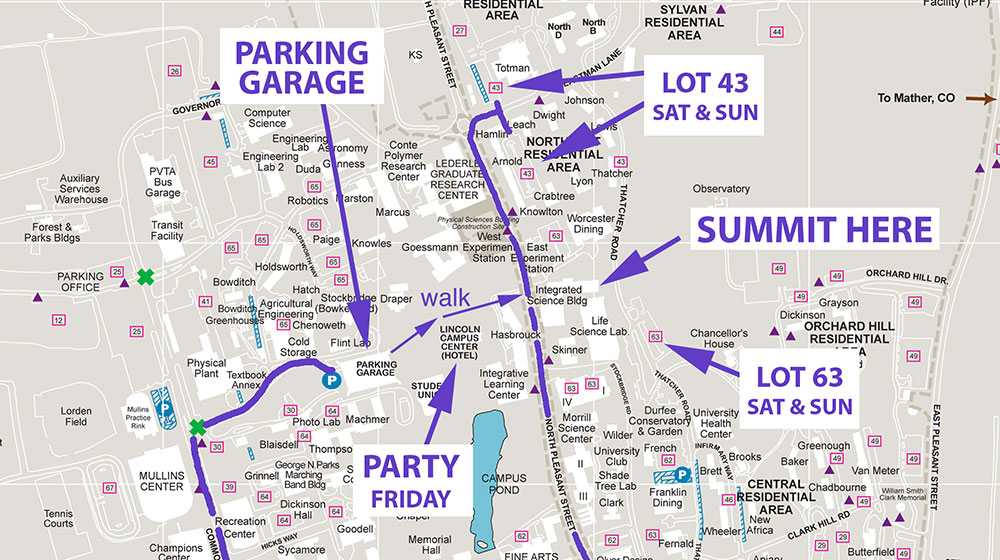
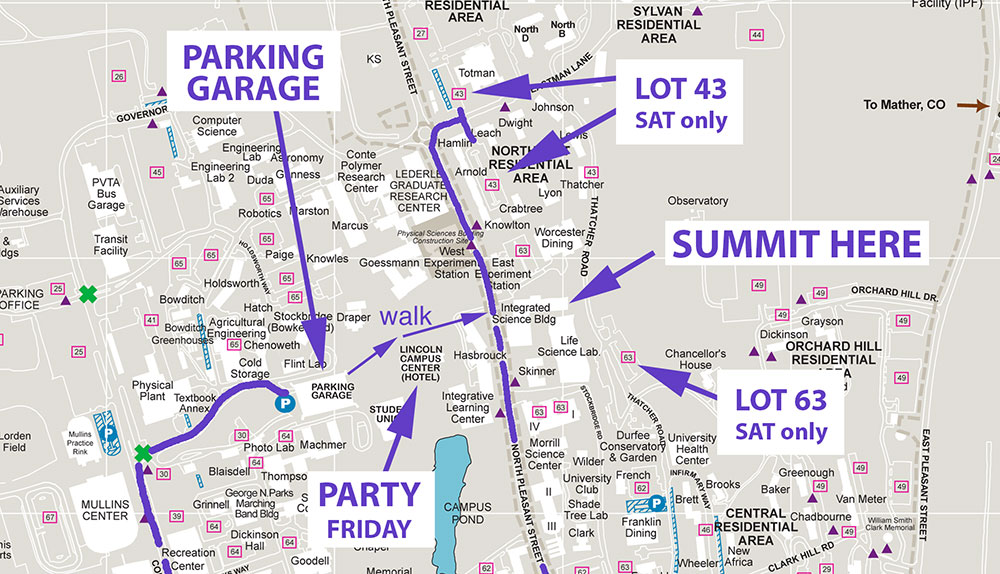
changed the map and moved UMass hotel stuff up higher

diff --git a/index.html b/index.html
@@ -109,22 +109,24 @@
         <h2 class="billboard__header">Location</h2>
         <p>NERDS 2020 will take place in the <a href="https://www.cns.umass.edu/research/buildings-and-facilities/integrated-sciences-building" target="blank">Integrated Sciences Building</a> <br>at UMass Amherst in Amherst, Massachusetts.</p>
         <p>Drive times: Logan (BOS) Airport: 2 hours, Bradley (BDL) Airport: 1 hour, <br>New Haven: 1.5 hour, NYC: 3.5 hours. </p>
+
+        <p> Hotel UMass has reserved a block of rooms (Group Code: NED20C) with discounted room and parking rates.
+        <strong>Contact the hotel by February 21, 2020</strong> to secure reservation using the above code. <br>
+        877-822-2110 <br>
+        <a href="http://www.hotelsone.com/amherst-hotels-us/hotel-umass.html" target="blank">www.hotelumass.com</a>
+        </p>
         <img src="images/campus-map.jpg?version=2018-09-22" alt="UMass campus map" />
         <p><a href="/images/campus-map-large.jpg">Download full size map</a></p>  
         <p>The most convenient parking is the <a href="https://goo.gl/maps/99enxmQRPeE2" target="blank">Campus Center Parking Garage</a> <br>at a cost of $1.75/hr. <a href="https://www.umass.edu/transportation/where-park" target="blank">More parking options are available</a>.</p>
 
         <p> Google links: 
-          <a href="https://www.google.com/maps/place/UMass+Parking+Services/@42.3913931,-72.5301145,21z/data=!4m5!3m4!1s0x89e6d270c7138c37:0x2ee98190aaf2d666!8m2!3d42.3925686!4d-72.5352348" target="blank">GARAGE</a> ($ Fri, Sat & Sun)  <br>
-          <a href="https://www.google.com/maps/place/Lot+43,+Amherst,+MA+01003/data=!4m2!3m1!1s0x89e6d279851b236d:0x60b436f9b6c17e28?sa=X&ved=2ahUKEwiO3N3Y4ZXnAhWpdt8KHZf5A4MQ8gEwAHoECCIQAQ" target="blank">LOT 43</a> (free Sat & Sun)  
-          <a href="https://www.google.com/maps/place/UMass+Parking+Services/@42.3920238,-72.5235833,18z/data=!4m5!3m4!1s0x89e6d270c7138c37:0x2ee98190aaf2d666!8m2!3d42.3925686!4d-72.5352348" target="blank">LOT 63</a> (free Sat & Sun) 
+          <a href="https://www.google.com/maps/place/UMass+Parking+Services/@42.3913931,-72.5301145,21z/data=!4m5!3m4!1s0x89e6d270c7138c37:0x2ee98190aaf2d666!8m2!3d42.3925686!4d-72.5352348" target="blank">GARAGE</a> ($ Fri, Sat)  <br>
+          <a href="https://www.google.com/maps/place/Lot+43,+Amherst,+MA+01003/data=!4m2!3m1!1s0x89e6d279851b236d:0x60b436f9b6c17e28?sa=X&ved=2ahUKEwiO3N3Y4ZXnAhWpdt8KHZf5A4MQ8gEwAHoECCIQAQ" target="blank">LOT 43</a> (free Sat)  
+          <a href="https://www.google.com/maps/place/UMass+Parking+Services/@42.3920238,-72.5235833,18z/data=!4m5!3m4!1s0x89e6d270c7138c37:0x2ee98190aaf2d666!8m2!3d42.3925686!4d-72.5352348" target="blank">LOT 63</a> (free Sat) 
         </p>
 
-        <p>There are <a href="https://www.google.com/maps/search/hotels+near+01002/@42.3606308,-72.5336356,12z/data=!3m1!4b1" target="blank">many hotels in the area</a> close by to UMass<br> including <a href="http://www.hotelsone.com/amherst-hotels-us/hotel-umass.html" target="blank">Hotel UMass</a>, very near the ISB building.</p>
-        <p> Hotel UMass has reserved a block of rooms (Group Code: NED20C).<br>
-        Contact the hotel by February 21, 2020 to secure reservation using the above code. <br>
-        877-822-2110 <br>
-        <a href="http://www.hotelsone.com/amherst-hotels-us/hotel-umass.html" target="blank">www.hotelumass.com</a>
-        </p>
+        <p>There are <a href="https://www.google.com/maps/search/hotels+near+01002/@42.3606308,-72.5336356,12z/data=!3m1!4b1" target="blank">many hotels in the area</a> close by to UMass<br> including <a href="http://www.hotelsone.com/amherst-hotels-us/hotel-umass.html" target="blank">Hotel UMass</a> (see more above the map), very near the ISB building.</p>
+
         </div>
       </div>
       <a class="billboard__anchor-link" name="sponsors"></a>
